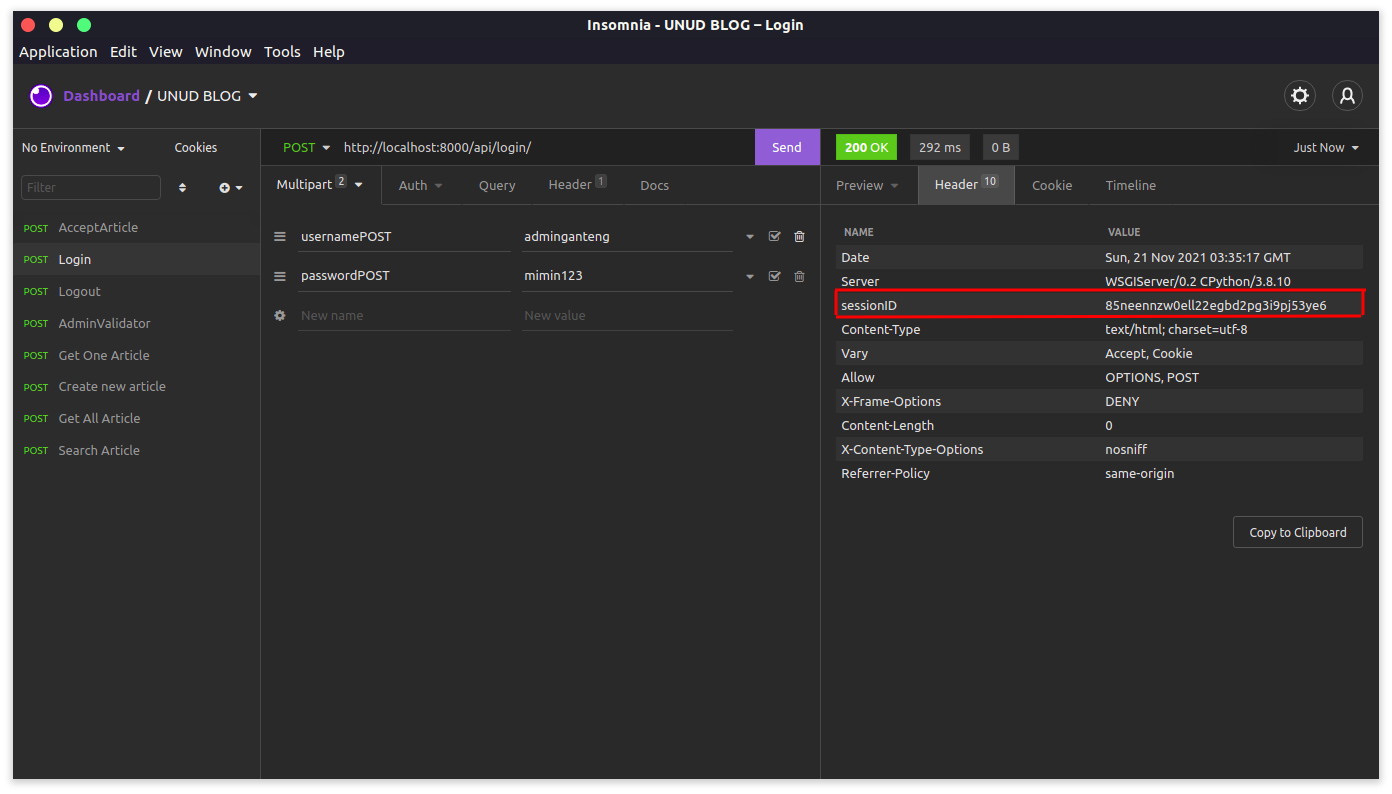
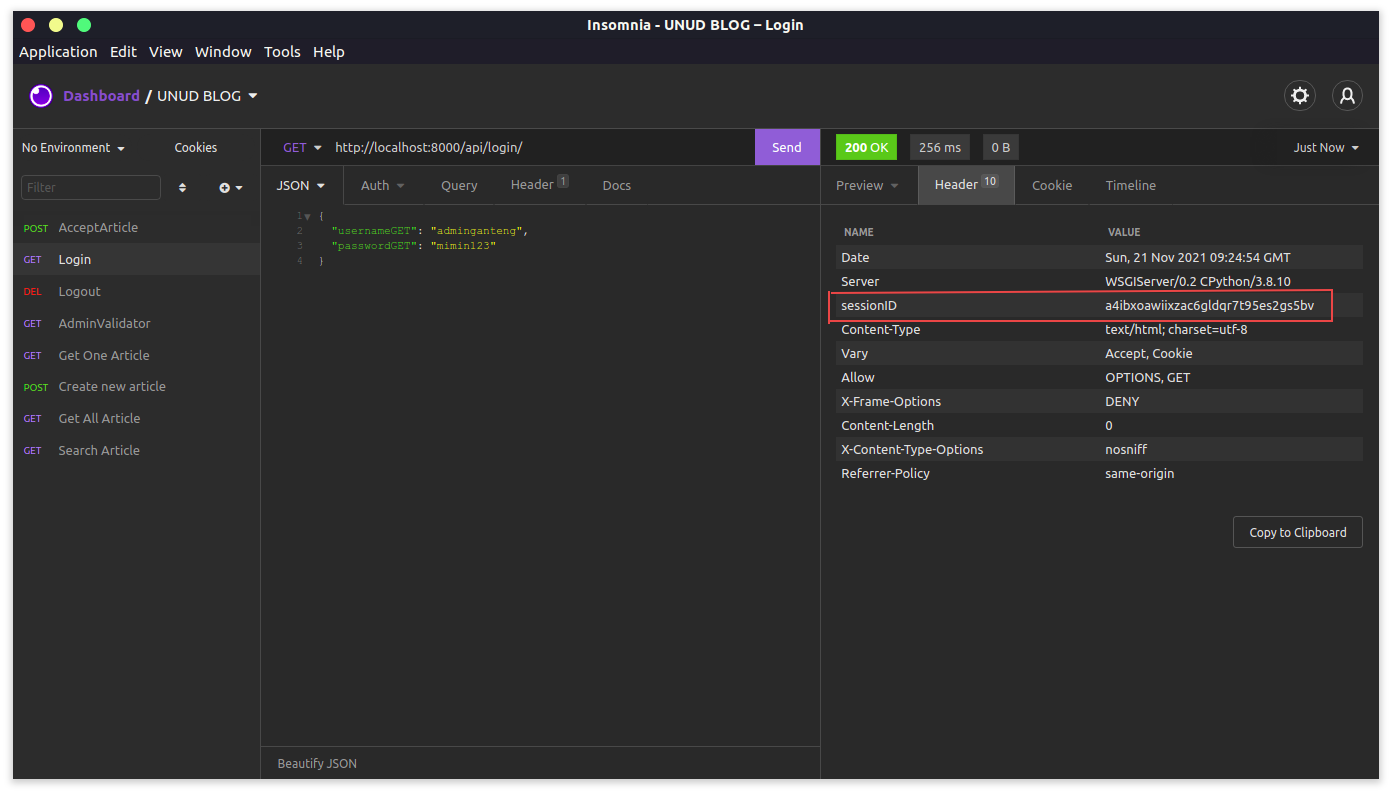
Documentation update

diff --git a/adminValidator/viewset_api.py b/adminValidator/viewset_api.py
@@ -7,7 +7,7 @@ from DATABASE.serializers import BlogSerializers, queueArticleSerialize
 from django.contrib.auth import authenticate
 from django.contrib.sessions.models import Session
 from django.contrib.sessions.backends.db import SessionStore
-import random
+import random, json
 
 class antrianArticle:
     def __init__(self):
@@ -44,10 +44,11 @@ def adminValidatorViewSet(request):
 
 @api_view(['GET'])
 def login(request):
-    if ('usernamePOST' in request.body and 'passwordPOST' in request.body):
+    bodyRequest = json.loads(request.body.decode('utf-8'))
+    if ('usernameGET' in bodyRequest and 'passwordGET' in bodyRequest):
         result = authenticate(
-            username=request.body['usernamePOST'],
-            password=request.body['passwordPOST'],
+            username=bodyRequest['usernameGET'],
+            password=bodyRequest['passwordGET'],
         )
         if (result is not None):
             sessionPart = SessionStore()

diff --git a/README.md b/README.md
@@ -131,10 +131,10 @@ python manage.py runserver
   [GET] /api/login/
 ```
 #### Requirements 
-| Mutipart | Type     | Description            |
+| JSON Body | Type     | Description            |
 | :-------- | :------- | :------------------ |
-| `usernamePOST`      | `string` | **Required** |
-| `passwordPOST`      | `string` | **Required** |
+| `usernameGET`      | `string` | **Required** |
+| `passwordGET`      | `string` | **Required** |
 
 #### Response Example
 ![img.png](static/img_3.png)
